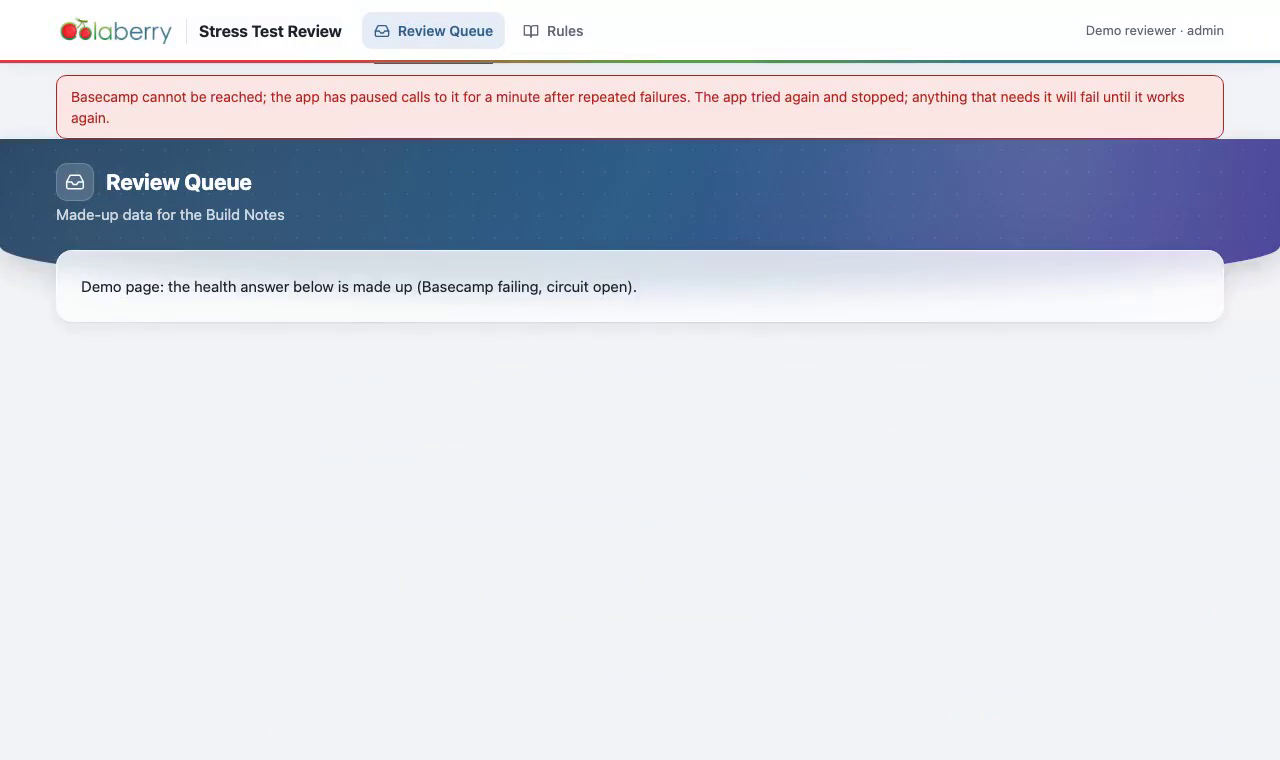
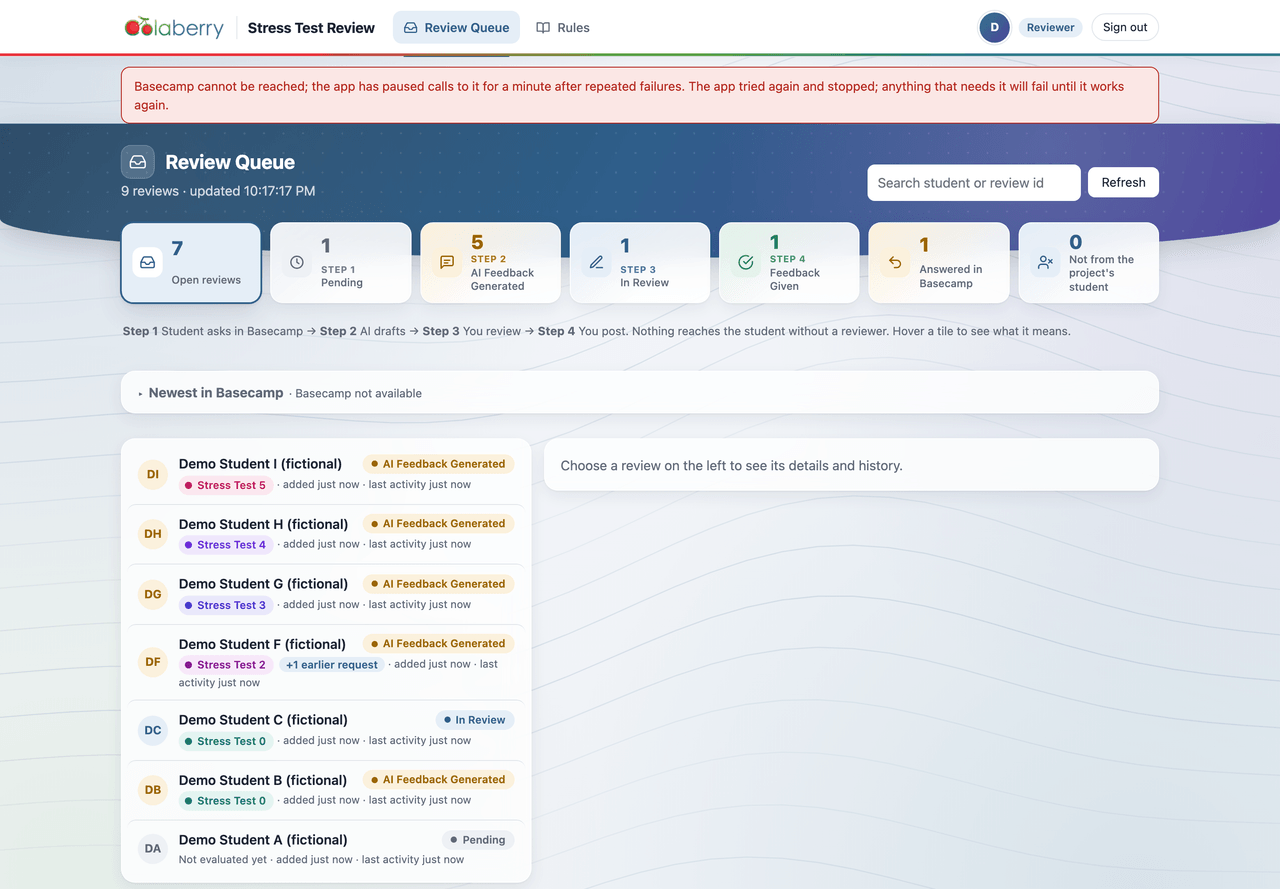
Case study: the circuit-breaker screenshot was a picture of nothing
shot-str-circuit-breaker.png is captioned "What the reviewer sees when
Basecamp stops answering". It showed the warning banner and then an empty
grey panel, because the capture was taken without Basecamp access and the
queue had no rows to draw. The failure path was the subject of the shot and
the only thing it recorded was the failure of the capture.

The builder re-took it with the breaker open and the queue populated: the
banner, the seven step tiles, the "Basecamp not available" strip, and seven
student rows, all labelled fictional.

Her capture was 2880x2000 at 2.4 MB. The other four screenshots in this
record are uniformly 1280x760 at 264 to 434 KB, so this is resized to 1280
wide (lanczos3, palette PNG): 1280x889, 233,813 bytes, inside the family's
weight budget. It stays taller than its siblings because the source is;
cropping to their 1.684 aspect would have sliced a student row in half.

This commit is only half the change. ?v= is the first eight characters of
the file's MD5 and is a separate Cloudflare cache key, so a new file under
the old ?v= reaches no reader. The artifact row's URL moves from
?v=bc9c50a3 to ?v=01dbcc3a in the same pass, after the nginx deploy.

Verification: md5 of the shipped file is 01dbcc3a; the rule itself was
checked against a control, since the live file hashes to bc9c50a3 and the
live artifact URL already reads ?v=bc9c50a3.

Files touched: frontend/public/site-v2/shot-str-circuit-breaker.png,
[…]

diff --git a/docs/sessions/CC-20261103-m9x4-case-study-assets.md b/docs/sessions/CC-20261103-m9x4-case-study-assets.md
@@ -167,3 +167,32 @@ after putting the two candidates side by side: the text sat too low and crowded 
 
 **All three are committed**, as the reference records' a/b/c variants are, so changing the
 pick later is one `apply-cover.js` run and no deploy.
+
+---
+
+## 2026-11-04 — the circuit-breaker screenshot was a picture of nothing
+
+`shot-str-circuit-breaker.png`, captioned "What the reviewer sees when Basecamp stops
+answering", carried the warning banner correctly and then roughly six hundred pixels of
+empty grey panel beneath it. The capture had been taken without Basecamp access, so the
+queue it was meant to show had no rows to draw. The failure path was the subject of the
+shot and the only thing visible was the failure of the capture.
+
+The builder re-took it on her own machine with the breaker open and the queue populated:
+banner, the seven step tiles, the "Newest in Basecamp / Basecamp not available" strip, and
+seven student rows. Nine reviews, all labelled fictional.
+
+Her capture was 2880x2000 at 2.4 MB, a 2x full-page shot. The other four screenshots in
+this record are uniformly 1280x760 at 264 to 434 KB, so it was resized to 1280 wide with
+lanczos3 and written as a palette PNG: **1280x889, 233,813 bytes**, inside the family's
+weight budget. The aspect is taller than its siblings because the source is; cropping to
+1.684 would have sliced a student row in half to buy nothing.
+
+**The repo commit is only half the job.** `?v=` is the first eight characters of the
+file's MD5 and is a separate Cloudflare cache key, so a new PNG shipped under the old
+`?v=` reaches no reader: the edge keeps serving the cached old image and the deploy looks
+successful while the page is unchanged. The artifact row's URL has to move with the file.
+
+- old file `bc9c50a3`, 151,825 bytes — and the live artifact URL said `?v=bc9c50a3`,
+  which is the control that proves the MD5 rule rather than assuming it
+- new file `01dbcc3a`, 233,813 bytes — the artifact URL is updated to match
